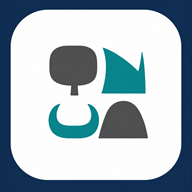
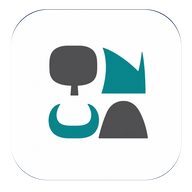
123

Changed region(s): [[0.0, 0.0, 1.0, 1.0]]

diff --git a/index.html b/index.html
@@ -9,9 +9,9 @@
 <meta name="apple-mobile-web-app-title" content="招生儀表板">
 <meta name="robots" content="noindex, nofollow, noarchive, nosnippet, noimageindex">
 <meta name="googlebot" content="noindex, nofollow, noarchive, nosnippet, noimageindex">
-<link rel="icon" type="image/png" sizes="32x32" href="assets/app-icon-32.png">
-<link rel="apple-touch-icon" sizes="180x180" href="assets/app-icon-180.png">
-<link rel="manifest" href="manifest.webmanifest">
+<link rel="icon" type="image/png" sizes="32x32" href="assets/app-icon-32.png?v=20260728-icon2">
+<link rel="apple-touch-icon" sizes="180x180" href="assets/app-icon-180.png?v=20260728-icon2">
+<link rel="manifest" href="manifest.webmanifest?v=20260728-icon2">
 <title>國立臺北藝術大學招生互動儀表板</title>
 <style>
 :root{--ink:#14213d;--navy:#17324d;--blue:#2878b5;--teal:#168a83;--gold:#d5a021;--red:#c5534d;--paper:#f7f4ee;--panel:#edf1f4;--line:#ccd5dd;--muted:#667085;--white:#fff;--shadow:0 16px 50px rgba(20,33,61,.10);--font-sans:"Noto Sans TC","Microsoft JhengHei","PingFang TC",Arial,sans-serif}
